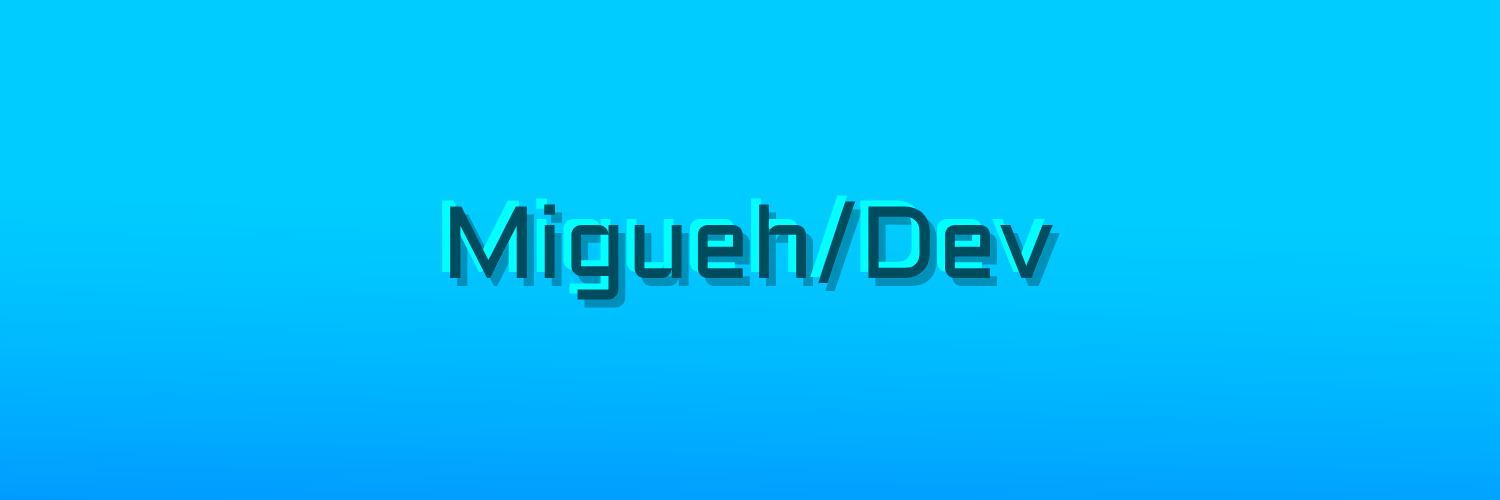
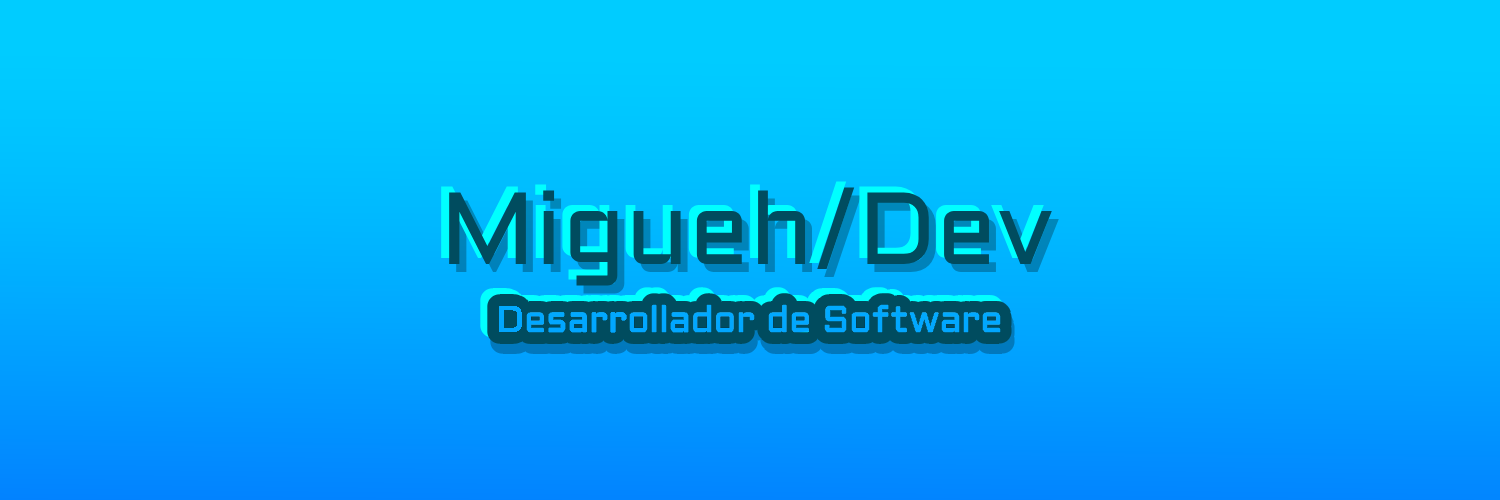
update

diff --git a/README.md b/README.md
@@ -2,7 +2,7 @@
     <img src="https://readme-typing-svg.herokuapp.com/?font=Righteous&size=35&&color=00ccff&center=true&vCenter=true&width=500&height=70&duration=4000&lines=Hi+There!+👋;" />
 </h1>
 <h1 align="center">
-<img src=banner1.png />
+<img src=banner.png />
 </h1>
 
 <h3 align="center">A passionate software developer from Colombia 🇨🇴</h3>
